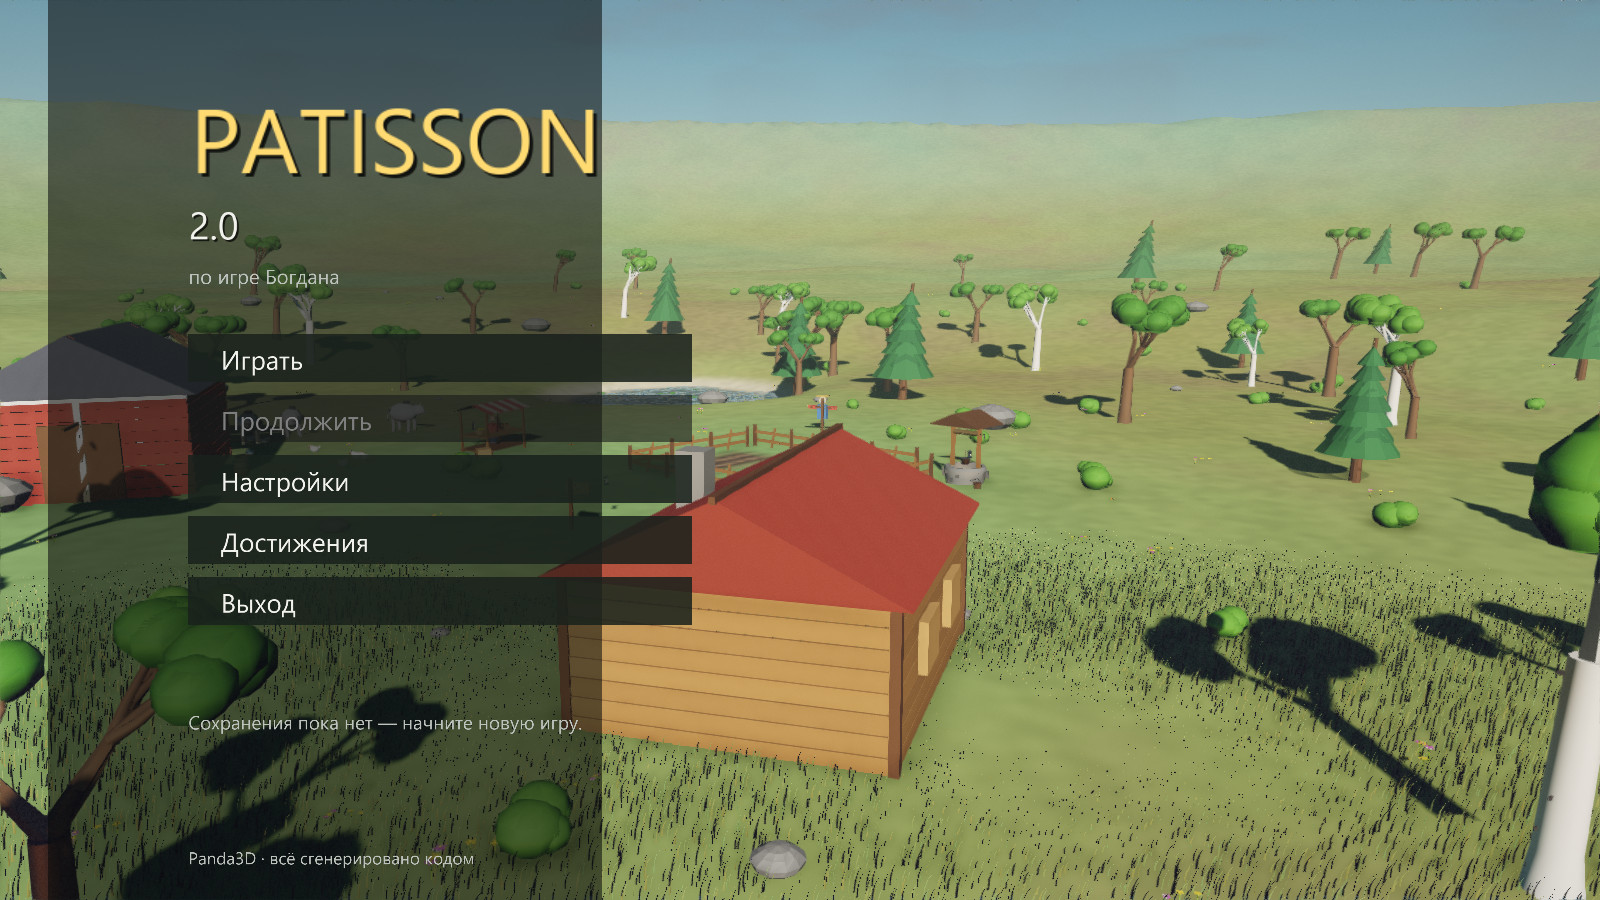
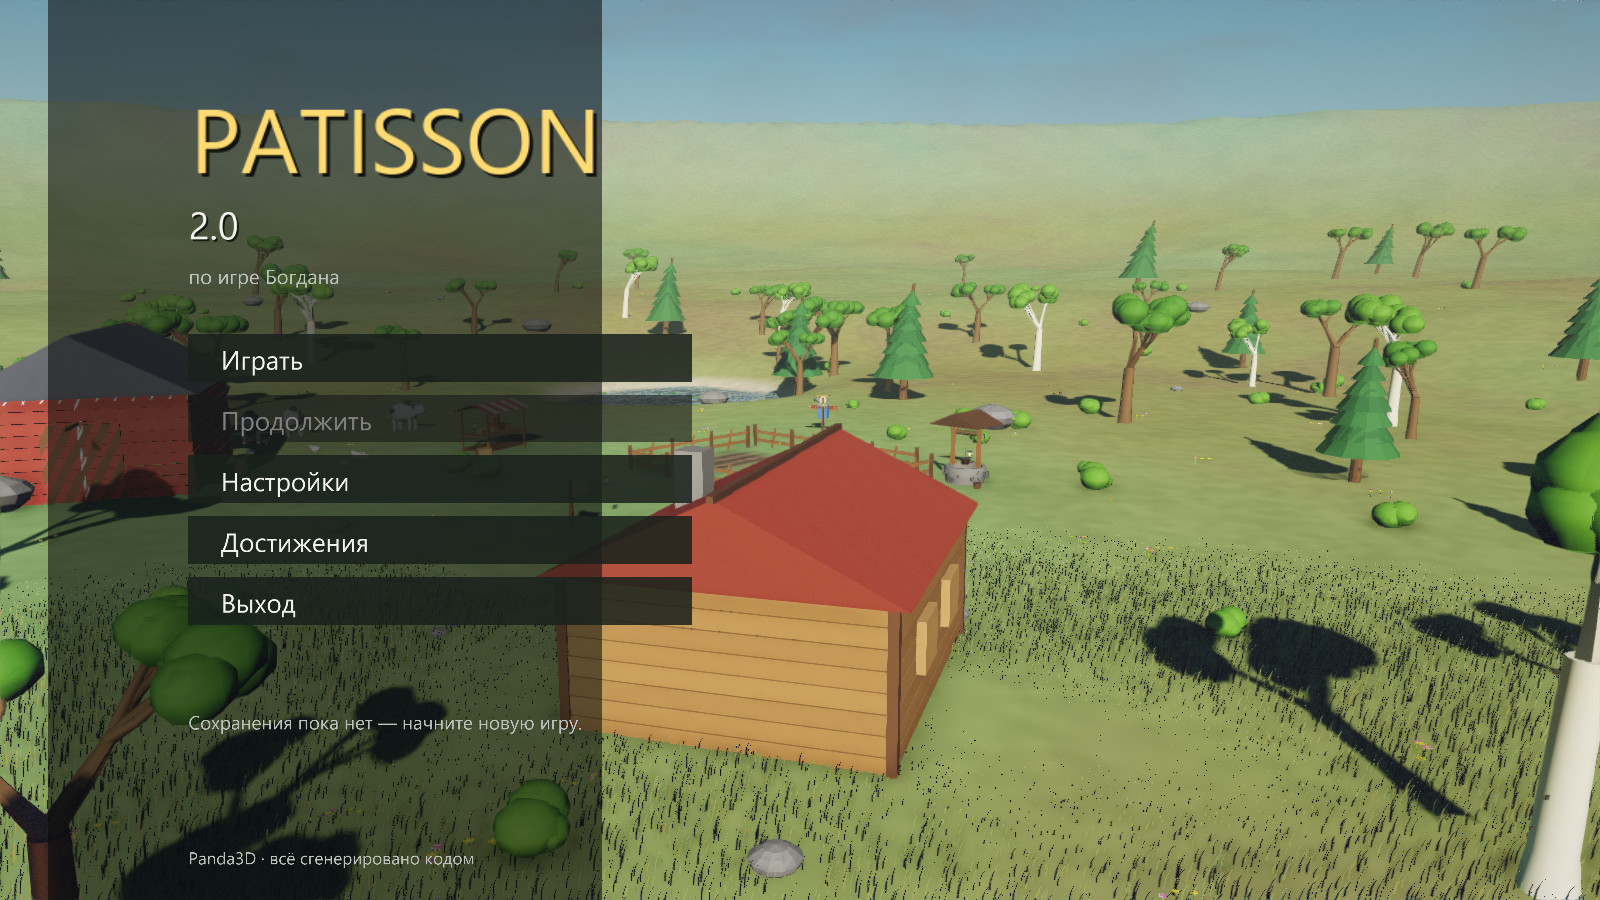
Patisson 2.0: visible rain and snow, seasonal foliage
Weather already drove the sky, the light and whether crops watered themselves,
but nothing fell out of it. Rain and snow are now instanced entirely on the GPU
— 64k streaks or 38k flakes placed from the instance id inside a volume that
follows the camera and wraps on a world-anchored grid, so walking never makes
particles pop. Streaks stretch along the fall direction and lean with the wind;
flakes drift and sway. Both sample the height field and fade out as they reach
the ground. Costs about 4 fps at 1280x720.

Two bugs found along the way:

- Precipitation sampled the sky at the zenith, which is several times darker
  than the horizon it is usually seen against, so snow rendered as dark specks
  over a bright winter sky. It now samples along its own view ray.
- setColorScale did nothing anywhere in the game: Panda applies ColorScaleAttrib
  through the fixed pipeline, and once a hand-written GLSL shader is bound it is
  simply dropped unless the shader reads p3d_ColorScale. That silently disabled
  the wilting tint on neglected crops as well.

With colour scale working, foliage now follows the seasons — fresh yellow-green
in spring, gold in autumn, cold and drained in winter.

diff --git a/patisson2/world/weather.py b/patisson2/world/weather.py
@@ -1,0 +1,127 @@
+"""Visible weather: instanced rain and snow that follow the camera."""
+
+from __future__ import annotations
+
+from panda3d.core import (
+    Geom,
+    GeomNode,
+    GeomTriangles,
+    GeomVertexData,
+    GeomVertexFormat,
+    GeomVertexWriter,
+    NodePath,
+    OmniBoundingVolume,
+    TransparencyAttrib,
+    Vec2,
+    Vec3,
+    Vec4,
+)
+
+from ..engine.pipeline import MASK_SHADOW
+from ..engine.shaderlib import make_shader
+
+# (instances, box, particle size, fall speed, sway, tint, opacity, round?)
+PRESETS = {
+    "rain": dict(count=64_000, box=Vec3(40.0, 40.0, 22.0), size=Vec2(0.017, 1.15),
+                 fall=18.0, sway=0.0, tint=Vec3(0.74, 0.82, 0.94), opacity=0.34,
+                 round=0.0, ground_fade=0.5, boost=0.85),
+    "snow": dict(count=38_000, box=Vec3(36.0, 36.0, 20.0), size=Vec2(0.070, 0.070),
+                 fall=1.4, sway=0.60, tint=Vec3(1.0, 1.0, 1.05), opacity=0.92,
+                 round=1.0, ground_fade=0.25, boost=1.9),
+}
+
+
+def _quad_node(instances: int, name: str) -> NodePath:
+    """A unit quad in the XZ plane, instanced. The vertex shader does the rest."""
+    fmt = GeomVertexFormat.getV3()
+    vdata = GeomVertexData(name, fmt, Geom.UHStatic)
+    vdata.setNumRows(4)
+    vw = GeomVertexWriter(vdata, "vertex")
+    for x, z in ((-0.5, -0.5), (0.5, -0.5), (0.5, 0.5), (-0.5, 0.5)):
+        vw.addData3(x, 0.0, z)
+
+    tris = GeomTriangles(Geom.UHStatic)
+    tris.addVertices(0, 1, 2)
+    tris.addVertices(0, 2, 3)
+
+    geom = Geom(vdata)
+    geom.addPrimitive(tris)
+    node = GeomNode(name)
+    node.addGeom(geom)
+
+    np_ = NodePath(node)
+    np_.setInstanceCount(instances)
+    # Placement happens on the GPU, so Panda can't derive real bounds.
+    np_.node().setBounds(OmniBoundingVolume())
+    np_.node().setFinal(True)
+    np_.setTwoSided(True)
+    return np_
+
+
+class Precipitation:
+    """Owns one rain layer and one snow layer, cross-fading on the weather."""
+
+    def __init__(self, base, world, pipeline):
+        self.base = base
+        self.world = world
+        self.pipeline = pipeline
+        self.layers: dict[str, NodePath] = {}
+        self.intensity: dict[str, float] = {"rain": 0.0, "snow": 0.0}
+        self.target: dict[str, float] = {"rain": 0.0, "snow": 0.0}
+        self.root = world.root.attachNewNode("precipitation")
+
+        shader = make_shader("precip.vert", "precip.frag")
+        for kind, cfg in PRESETS.items():
+            np_ = _quad_node(cfg["count"], kind)
+            np_.reparentTo(self.root)
+            np_.setShader(shader)
+            np_.setShaderInput("u_skyLut", pipeline.skylut_tex)
+            np_.setShaderInput("u_heightMap", world.terrain.height_tex)
+            np_.setShaderInput("u_terrainBounds", world.bounds)
+            np_.setShaderInput("u_box", cfg["box"])
+            np_.setShaderInput("u_size", cfg["size"])
+            np_.setShaderInput("u_fallSpeed", cfg["fall"])
+            np_.setShaderInput("u_sway", cfg["sway"])
+            np_.setShaderInput("u_tint", cfg["tint"])
+            np_.setShaderInput("u_opacity", cfg["opacity"])
+            np_.setShaderInput("u_round", cfg["round"])
+            np_.setShaderInput("u_groundFade", cfg["ground_fade"])
+            np_.setShaderInput("u_boost", cfg["boost"])
+            np_.setShaderInput("u_camera", Vec3(0, 0, 0))
+            np_.setShaderInput("u_wind", Vec3(0, 0, 0))
+            np_.setShaderInput("u_time", 0.0)
+            np_.setShaderInput("u_intensity", 0.0)
+            np_.setTransparency(TransparencyAttrib.MAlpha)
+            np_.setBin("transparent", 40)
+            np_.setDepthWrite(False)
+            np_.hide(MASK_SHADOW)
+            np_.stash()                     # nothing to draw until it rains
+            self.layers[kind] = np_
+
+    def set_weather(self, weather: str) -> None:
+        self.target["rain"] = 1.0 if weather == "rain" else 0.0
+        self.target["snow"] = 1.0 if weather == "snow" else 0.0
+
+    def snap(self) -> None:
+        """Jump straight to the target intensity — for scene cuts and captures."""
+        self.intensity.update(self.target)
+
+    def update(self, dt: float, camera_pos: Vec3, time: float, wind: Vec3) -> None:
+        for kind, np_ in self.layers.items():
+            level = self.intensity[kind]
+            level += (self.target[kind] - level) * min(dt * 0.55, 1.0)
+            self.intensity[kind] = level
+
+            if level < 0.004:
+                if not np_.isStashed():
+                    np_.stash()
+                continue
+            if np_.isStashed():
+                np_.unstash()
+
+            drift = Vec3(wind.x * (0.9 if kind == "rain" else 0.45),
+                         wind.y * (0.9 if kind == "rain" else 0.45), 0.0)
+            np_.setShaderInput("u_camera", camera_pos)
+            np_.setShaderInput("u_time", time)
+            np_.setShaderInput("u_wind", drift)
+            np_.setShaderInput("u_intensity", level)

diff --git a/patisson2/tools/shots.py b/patisson2/tools/shots.py
@@ -53,6 +53,9 @@ def capture(out_dir: Path = DEFAULT_OUT, width: int = 1600, height: int = 900):
         if weather is not None:
             app.weather = weather
             app.weather_timer = 9e9
+            # Skip the fade so a capture never lands mid-crossfade.
+            app.precip.set_weather(weather)
+            app.precip.snap()
         settle(3)
         # Let exposure settle on the new lighting.
         sky = app.cycle.state()
@@ -158,17 +161,21 @@ def capture(out_dir: Path = DEFAULT_OUT, width: int = 1600, height: int = 900):
     shot("14-journal.png")
     app.hud.close_panel()
 
-    # 11. Winter.
-    app.cycle.total_time += cfg.game.day_length * cfg.game.season_days * 3
-    app.world.apply_season(3)
-    app.weather = "snow"
+    # 11. Autumn, then winter. The clock has to move so the game loop agrees
+    # with the season we're asking for.
+    day = cfg.game.day_length
+    season_len = day * cfg.game.season_days
+    app.cycle.total_time += season_len * 2
+    look_at(app.player, (-3.0, 13.0, 1.0), (11.0, -15.0, gz(11.0, -15.0) + 3.0))
+    shot("15-autumn.png", hour=16.0, weather="clear")
+
+    app.cycle.total_time += season_len
     look_at(app.player, (-4.0, 10.0, 0.5), (6.0, -10.0, gz(6.0, -10.0)))
-    shot("15-winter.png", hour=12.0)
+    shot("16-winter.png", hour=12.0, weather="snow")
 
     # 12. Photo mode: the same view, path traced.
-    app.world.apply_season(1)
+    app.cycle.total_time = day * 8 + 10.5 / 24.0 * day     # back to summer
     app.weather = "clear"
-    app.cycle.total_time = 10.5 / 24.0 * cfg.game.day_length
     look_at(app.player, (7.5, 7.0, 1.2), (2.0, -3.0, gz(2.0, -3.0)))
     settle(4)
     app.toggle_photo_mode()
@@ -176,10 +183,10 @@ def capture(out_dir: Path = DEFAULT_OUT, width: int = 1600, height: int = 900):
     if tracer:
         while tracer.samples < 320:
             app.taskMgr.step()
-        shot("16-pathtraced.png")
+        shot("17-pathtraced.png")
         app.toggle_photo_mode()
     else:
-        print("[shot] 16-pathtraced.png skipped (no compute support)", flush=True)
+        print("[shot] 17-pathtraced.png skipped (no compute support)", flush=True)
 
     print("done ->", out_dir, flush=True)
     sys.stdout.flush()

diff --git a/patisson2/app.py b/patisson2/app.py
@@ -26,6 +26,7 @@ from .ui.hud import HUD
 from .ui.menu import MainMenu
 from .world.daynight import DayNightCycle
 from .world.props import Props, plot_positions
+from .world.weather import Precipitation
 from .world.world import World
 
 WEATHER_LABELS = {
@@ -74,6 +75,7 @@ class PatissonApp(ShowBase):
         self.props = Props(self, self.world, self.pipeline)
         self.farm = Farm(self, self.world, self.props, self.cfg.game.day_length)
         self.villagers = Villagers(self, self.world, self.props)
+        self.precip = Precipitation(self, self.world, self.pipeline)
         self.cycle = DayNightCycle(self.cfg.game.day_length,
                                    self.cfg.game.start_hour,
                                    self.cfg.game.season_days)
@@ -611,12 +613,16 @@ class PatissonApp(ShowBase):
         if st.upgrades.lantern_oil:
             night *= 1.7
 
-        wind = Vec4(0.82, 0.57, 0.0,
-                    0.75 if self.weather in ("rain", "snow") else 0.42)
+        gust = 0.75 if self.weather in ("rain", "snow") else 0.42
+        wind = Vec4(0.82, 0.57, 0.0, gust)
+        self.precip.set_weather(self.weather)
+        self.precip.update(dt, cam_pos, self.cycle.total_time,
+                           Vec3(0.82 * gust * 3.2, 0.57 * gust * 3.2, 0.0))
         self.world.update(dt, cam_pos if in_menu else self.player.pos, wind,
                           self.cycle.total_time)
         if self.cycle.season != self.world.season:
             self.world.apply_season(self.cycle.season)
+            self.props.apply_season(self.cycle.season)
         self.props.update(dt, self.cycle.total_time, night)
         self.villagers.update(dt if not blocked else 0.0, self.cycle.hour,
                               self.cycle.total_time)

diff --git a/patisson2/world/props.py b/patisson2/world/props.py
@@ -264,6 +264,20 @@ class Props:
 
     # ---------------------------------------------------------------- update
 
+    # Tree and bush colours are baked into the models, so the season shows
+    # through a colour scale on the foliage roots.
+    SEASON_TINT = {
+        0: (1.10, 1.12, 0.88, 1.0),     # spring: fresh, yellow-green
+        1: (1.0, 1.0, 1.0, 1.0),        # summer: as modelled
+        2: (1.85, 0.92, 0.30, 1.0),     # autumn: warm and turning
+        3: (0.55, 0.62, 0.74, 1.0),     # winter: cold and drained
+    }
+
+    def apply_season(self, season: int) -> None:
+        tint = self.SEASON_TINT.get(season, (1.0, 1.0, 1.0, 1.0))
+        for node in (self.foliage, self.small_foliage):
+            node.setColorScale(*tint)
+
     def update(self, dt: float, time: float, night: float):
         for a in self.animals:
             a.update(dt, time)

diff --git a/README.md b/README.md
@@ -30,8 +30,10 @@
 | **Ночь: звёзды и фонари** | **Дождь** |
 | ![Лавка](screenshots2/13-shop.jpg) | ![Журнал](screenshots2/14-journal.jpg) |
 | **Лавка** | **Журнал: задания и достижения** |
-| ![Зима](screenshots2/15-winter.jpg) | ![Фоторежим](screenshots2/16-pathtraced.jpg) |
-| **Зима** | **Фоторежим: та же сцена, трассировка лучей** |
+| ![Осень](screenshots2/15-autumn.jpg) | ![Зима](screenshots2/16-winter.jpg) |
+| **Осень: трава, листва и свет меняются** | **Зима: снег идёт и лежит** |
+| ![Фоторежим](screenshots2/17-pathtraced.jpg) | |
+| **Фоторежим: та же сцена, трассировка лучей** | |
 
 ---
 
@@ -172,7 +174,14 @@ GeForce RTX 3070 Laptop (OpenGL 4.6): около 50 fps в 1280×720 на пре
 - **Три жителя** с распорядком дня: Богдан работает на грядках, потом стоит за
   прилавком и уходит домой спать; Марина торгует и ходит рыбачить; Пётр кормит
   кур и пасёт коров. С каждым можно поговорить.
-- **Погода**: ясно, облачно, дождь, снег. В дождь грядки поливаются сами.
+- **Погода видна**: дождь и снег — десятки тысяч частиц, размещаемых целиком в
+  вершинном шейдере внутри объёма, который едет за камерой и заворачивается по
+  мировой сетке, так что при ходьбе ничего не «выпрыгивает». Капли вытянуты
+  вдоль падения и наклонены ветром, снежинки покачиваются; и те и другие
+  освещаются небом вдоль собственного луча взгляда, поэтому темнеют к вечеру
+  сами. В дождь грядки поливаются сами.
+- **Сезоны видно по листве**: цвет деревьев и кустов меняется от свежей
+  весенней зелени к золотой осени и выстывшей зиме.
 
 ### Интерфейс
 
